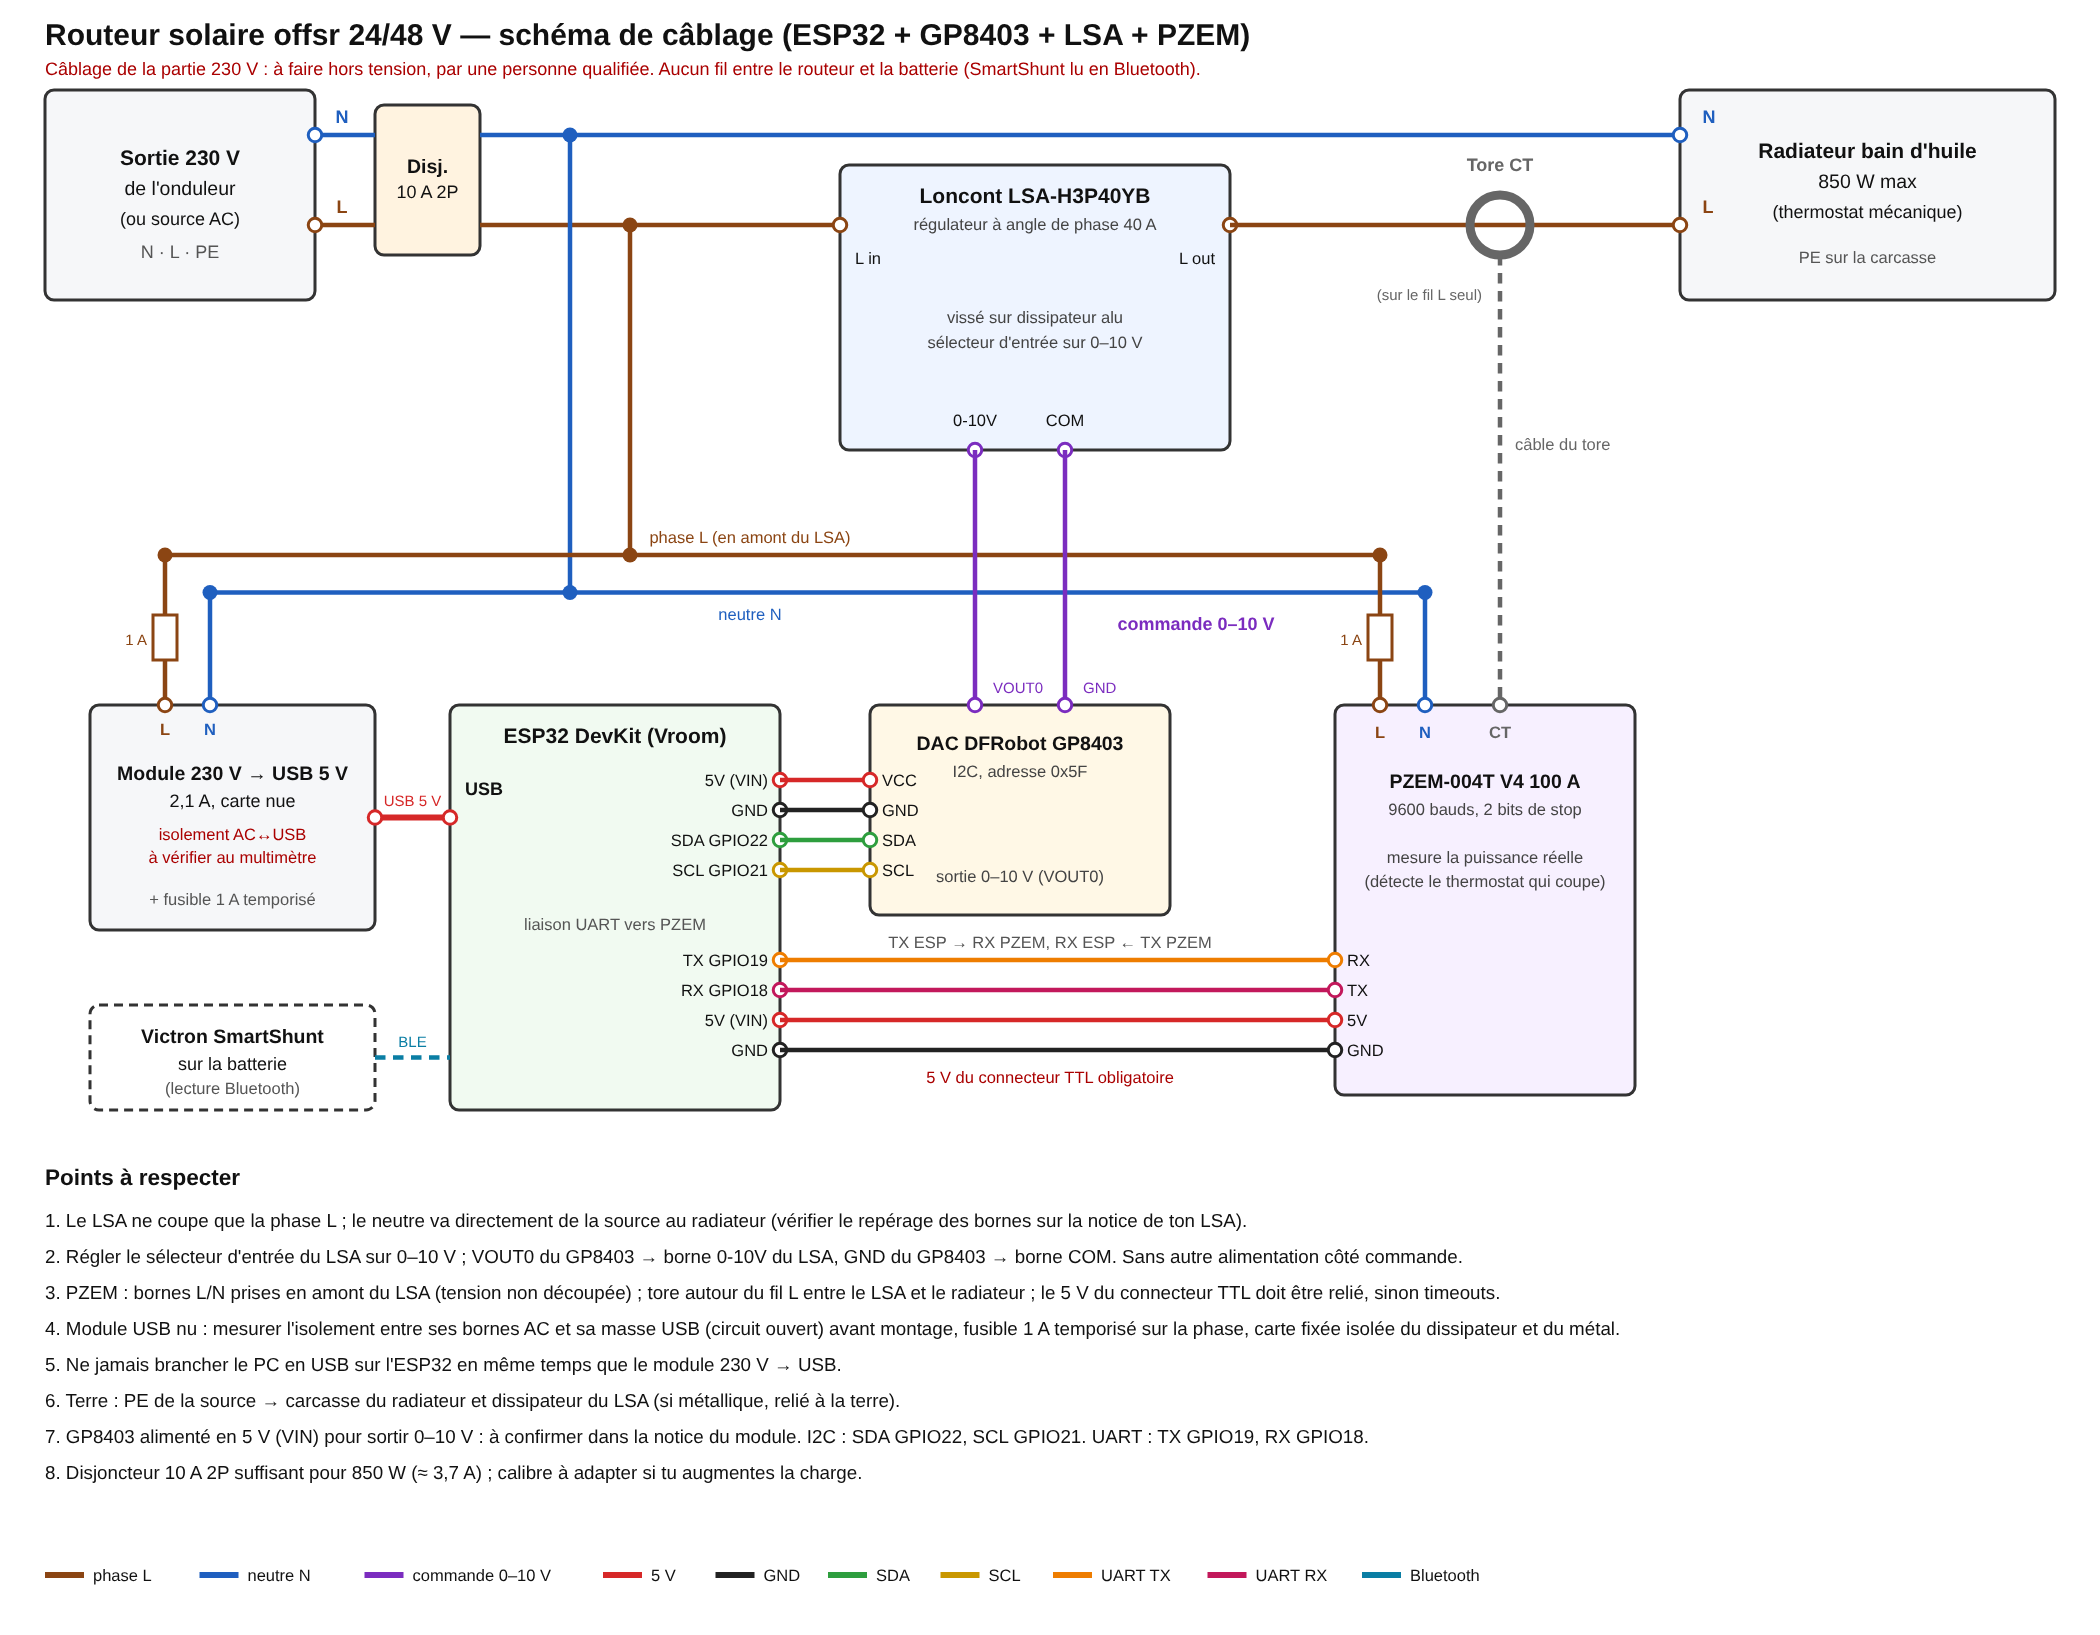
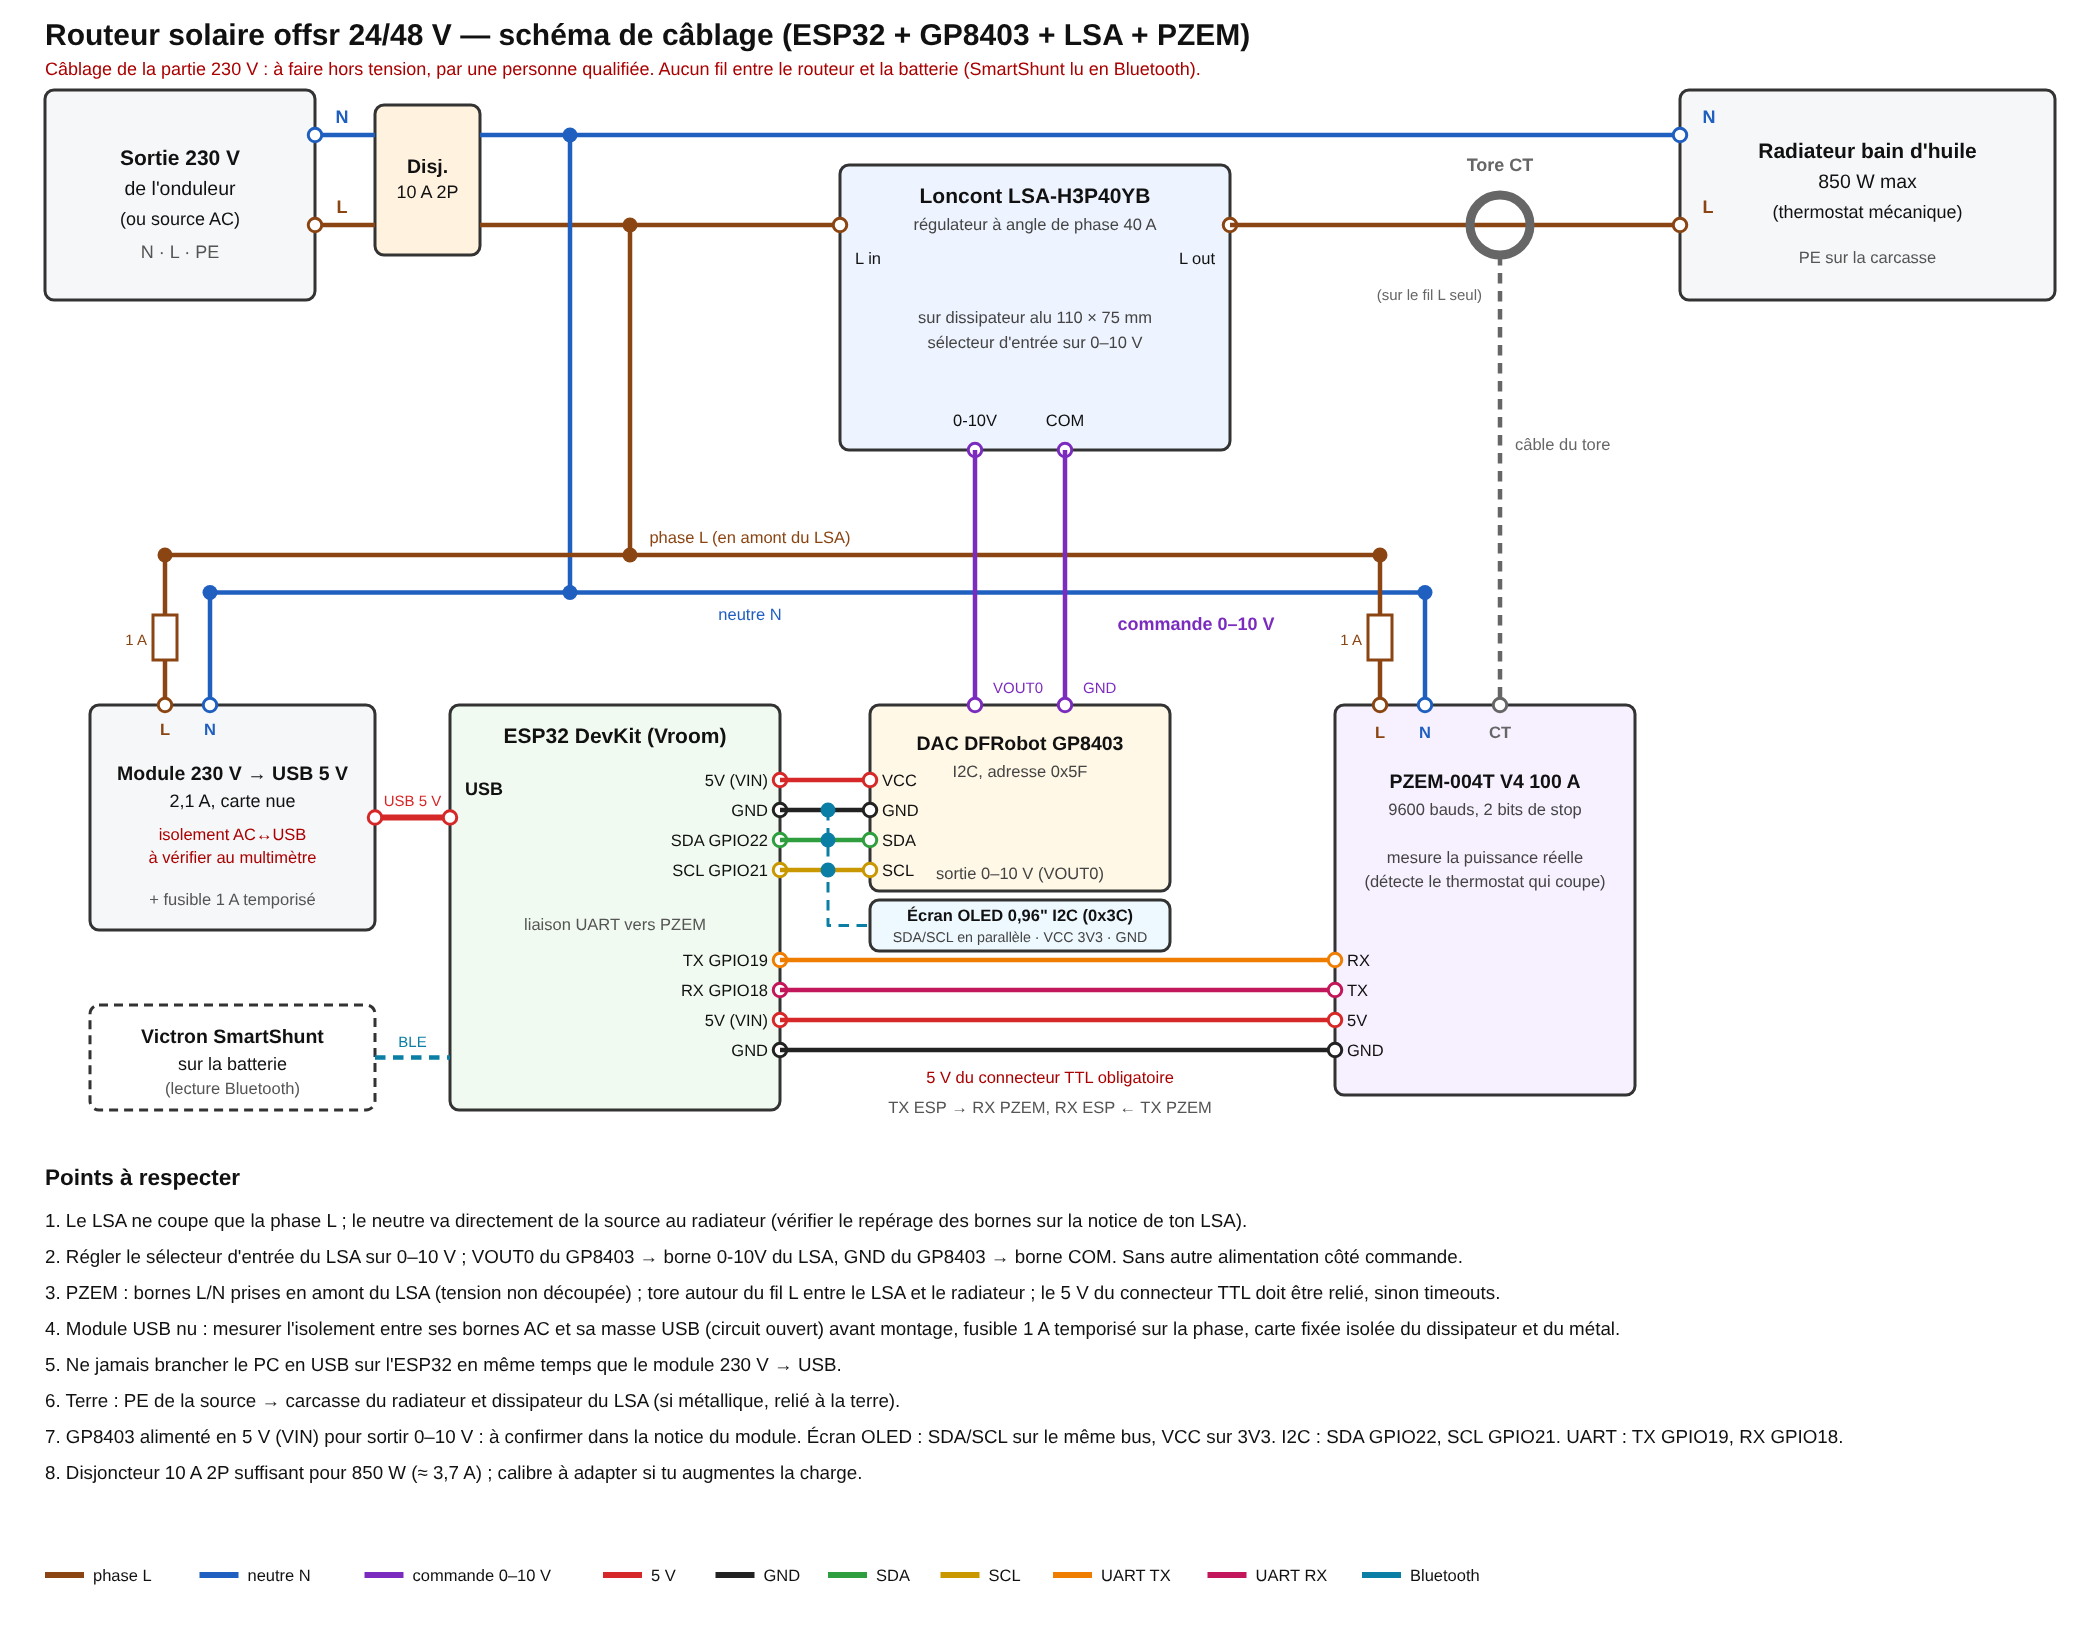
feat: écran OLED (v2.8), modèle de l'écran et dissipateur 110×75 dans les README, schéma mis à jour
Claude-Session: https://claude.ai/code/session_01EjgCF31B1WmXYLYzKNSUL8

diff --git a/esphome/README.md b/esphome/README.md
@@ -36,6 +36,8 @@ SmartShunt (BLE) ─► ESP32 / offsr ─► DAC GP8403 (0-10 V) ─► régulat
 | Régulateur | Loncont LSA-H3P40YB | commande 0-10 V, angle de phase |
 | Mesure puissance | PZEM-004T V4.0 100 A + tore | UART : ESP TX GPIO19 → RX PZEM, ESP RX GPIO18 ← TX PZEM, 9600 bauds, 2 bits de stop |
 | Batterie | Victron SmartShunt | lu en Bluetooth (`esphome-victron_ble`) |
+| Écran | OLED 0,96" 128×64 I2C, marquage **JMD0.96C** (contrôleur SSD1306 probable) | adresse `0x3C`, même bus I2C que le GP8403 (SDA GPIO22, SCL GPIO21), alimenté en 3V3 |
+| Dissipateur | aluminium **110 × 75 mm** | porte le LSA ; sort par une lucarne du couvercle |
 
 Câblage du PZEM : le 220 V sur ses bornes L/N, la liaison TTL en plus, et **le 5 V du connecteur TTL doit être relié**
 (sans lui : octets aléatoires puis timeouts). Il se place côté entrée du LSA, avant le découpage.
@@ -51,6 +53,22 @@ Câblage du PZEM : le 220 V sur ses bornes L/N, la liaison TTL en plus, et **le 
 
 **Sécurité réseau :** ce YAML n'active ni chiffrement de l'API ni mot de passe OTA, pour un routeur sur un réseau privé
 de confiance (et sans Home Assistant). Si l'ESP32 est sur un réseau partagé, ajoute `api: encryption:` et un mot de passe OTA.
+
+## Écran OLED
+
+Écran 0,96" 128×64 en I2C (marquage `JMD0.96C`), branché en parallèle du GP8403 : VCC sur 3V3, GND, SDA GPIO22, SCL GPIO21.
+Réglages en tête du YAML : `oled_address` (`"0x3C"`), `oled_model` (`"SSD1306 128x64"`, ou `"SH1106 128x64"` si l'image est
+décalée ou bruitée sur les bords) et `i2c_frequency` (`"400kHz"`). Le scan I2C du journal doit afficher `0x3C` et `0x5F`.
+
+Quatre lignes, rafraîchies chaque seconde :
+
+1. **état** : `DESACTIVE`, `MANUEL`, `SHUNT ABSENT`, `BATTERIE BASSE` (tension sous `starting`), `THERMOSTAT COUPE`,
+   `ROUTAGE ACTIF` (puissance mesurée ≥ 5 W) ou `VEILLE` ;
+2. **sortie** en % (valeur envoyée au LSA : elle vaut `output_min` au repos, sans que la charge chauffe) ;
+3. **puissance** mesurée par le PZEM, en W ;
+4. **tension et courant** de la batterie.
+
+La police est téléchargée à la compilation (`gfonts://`) : il faut un accès internet sur la machine qui compile.
 
 ## Flag 24 V / 48 V
 

diff --git a/README.md b/README.md
@@ -119,6 +119,8 @@ PZEM nu, module 230 V → USB fixé sur la plaque de séparation, LSA-H3P40YB su
 ESP32 DevKit (esp32dev) · DFRobot Gravity GP8403/GP8413 (DAC I2C 0-10 V) · Loncont LSA-H3P40YB
 (SSR à commande analogique 0-10 V) · PZEM-004T V4.0 (TTL) · SmartShunt Victron lu **en Bluetooth**
 (`esphome-victron_ble`) au lieu de l'UART.
+Écran OLED 0,96" 128×64 I2C (marquage JMD0.96C, SSD1306 probable, adresse 0x3C) · dissipateur aluminium 110 × 75 mm
+pour le LSA (détails dans [`esphome/README.md`](esphome/README.md)).
 
 ## Retours d'expérience (banc de test)
 
